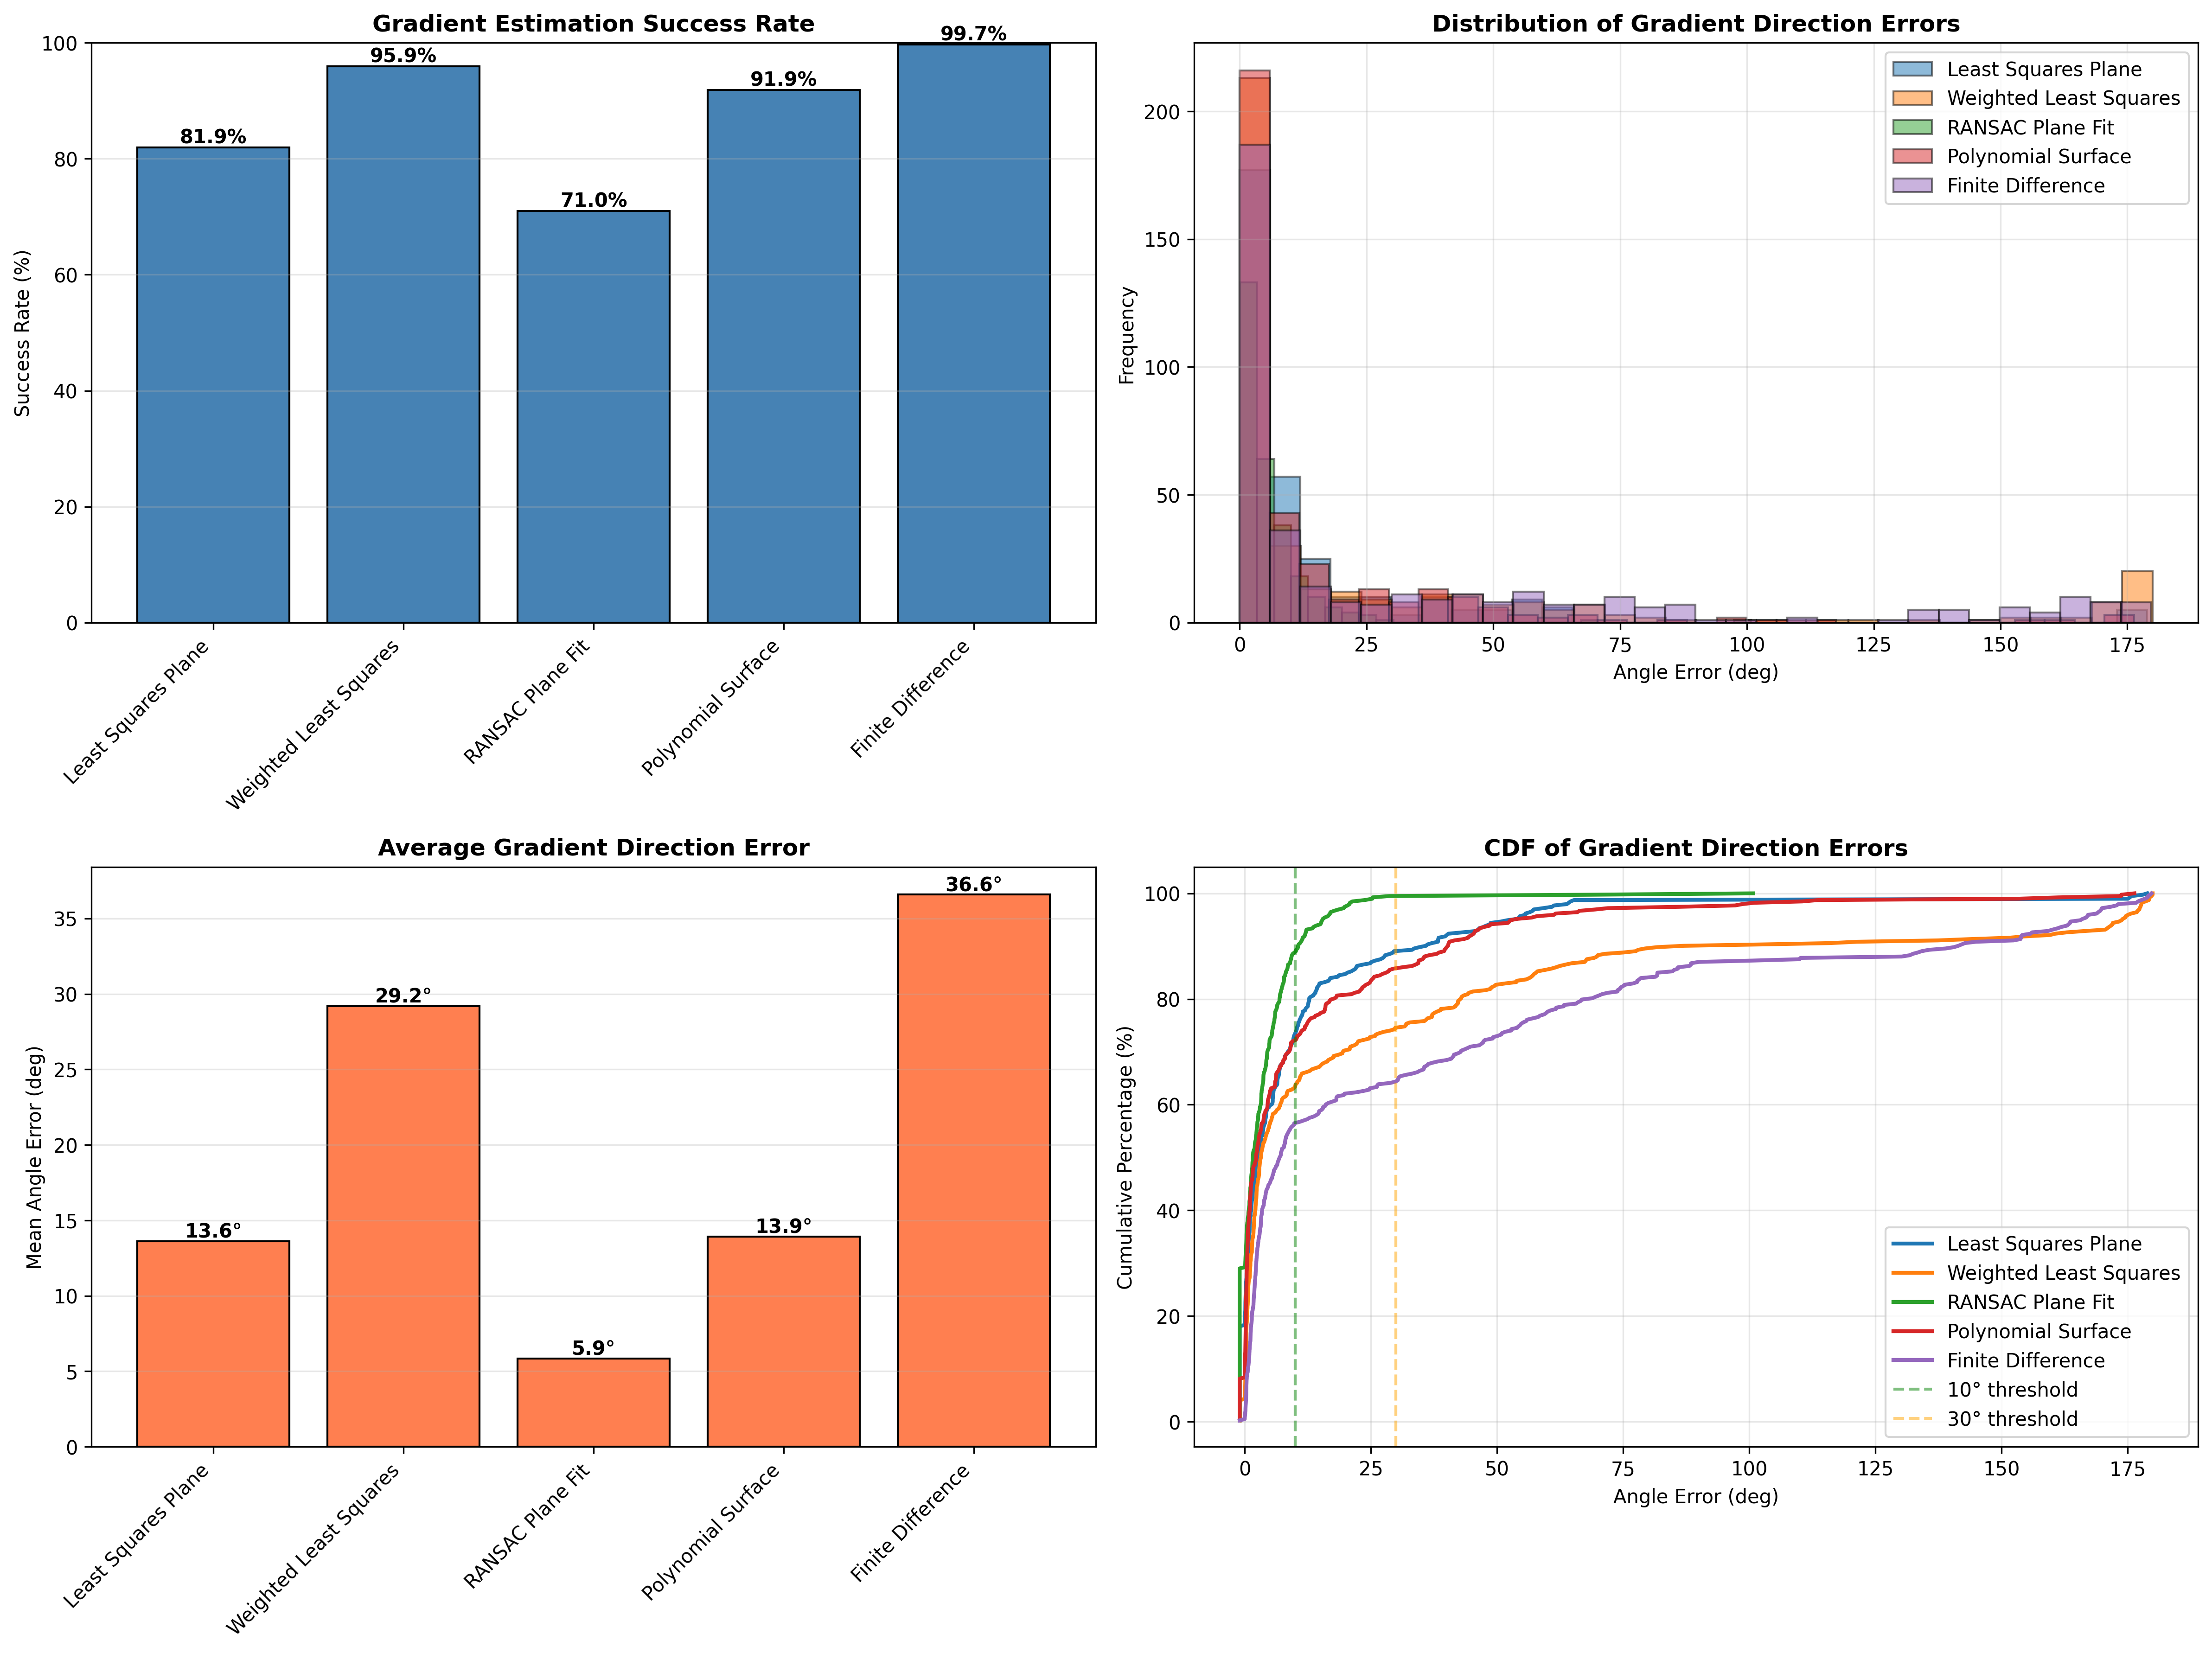
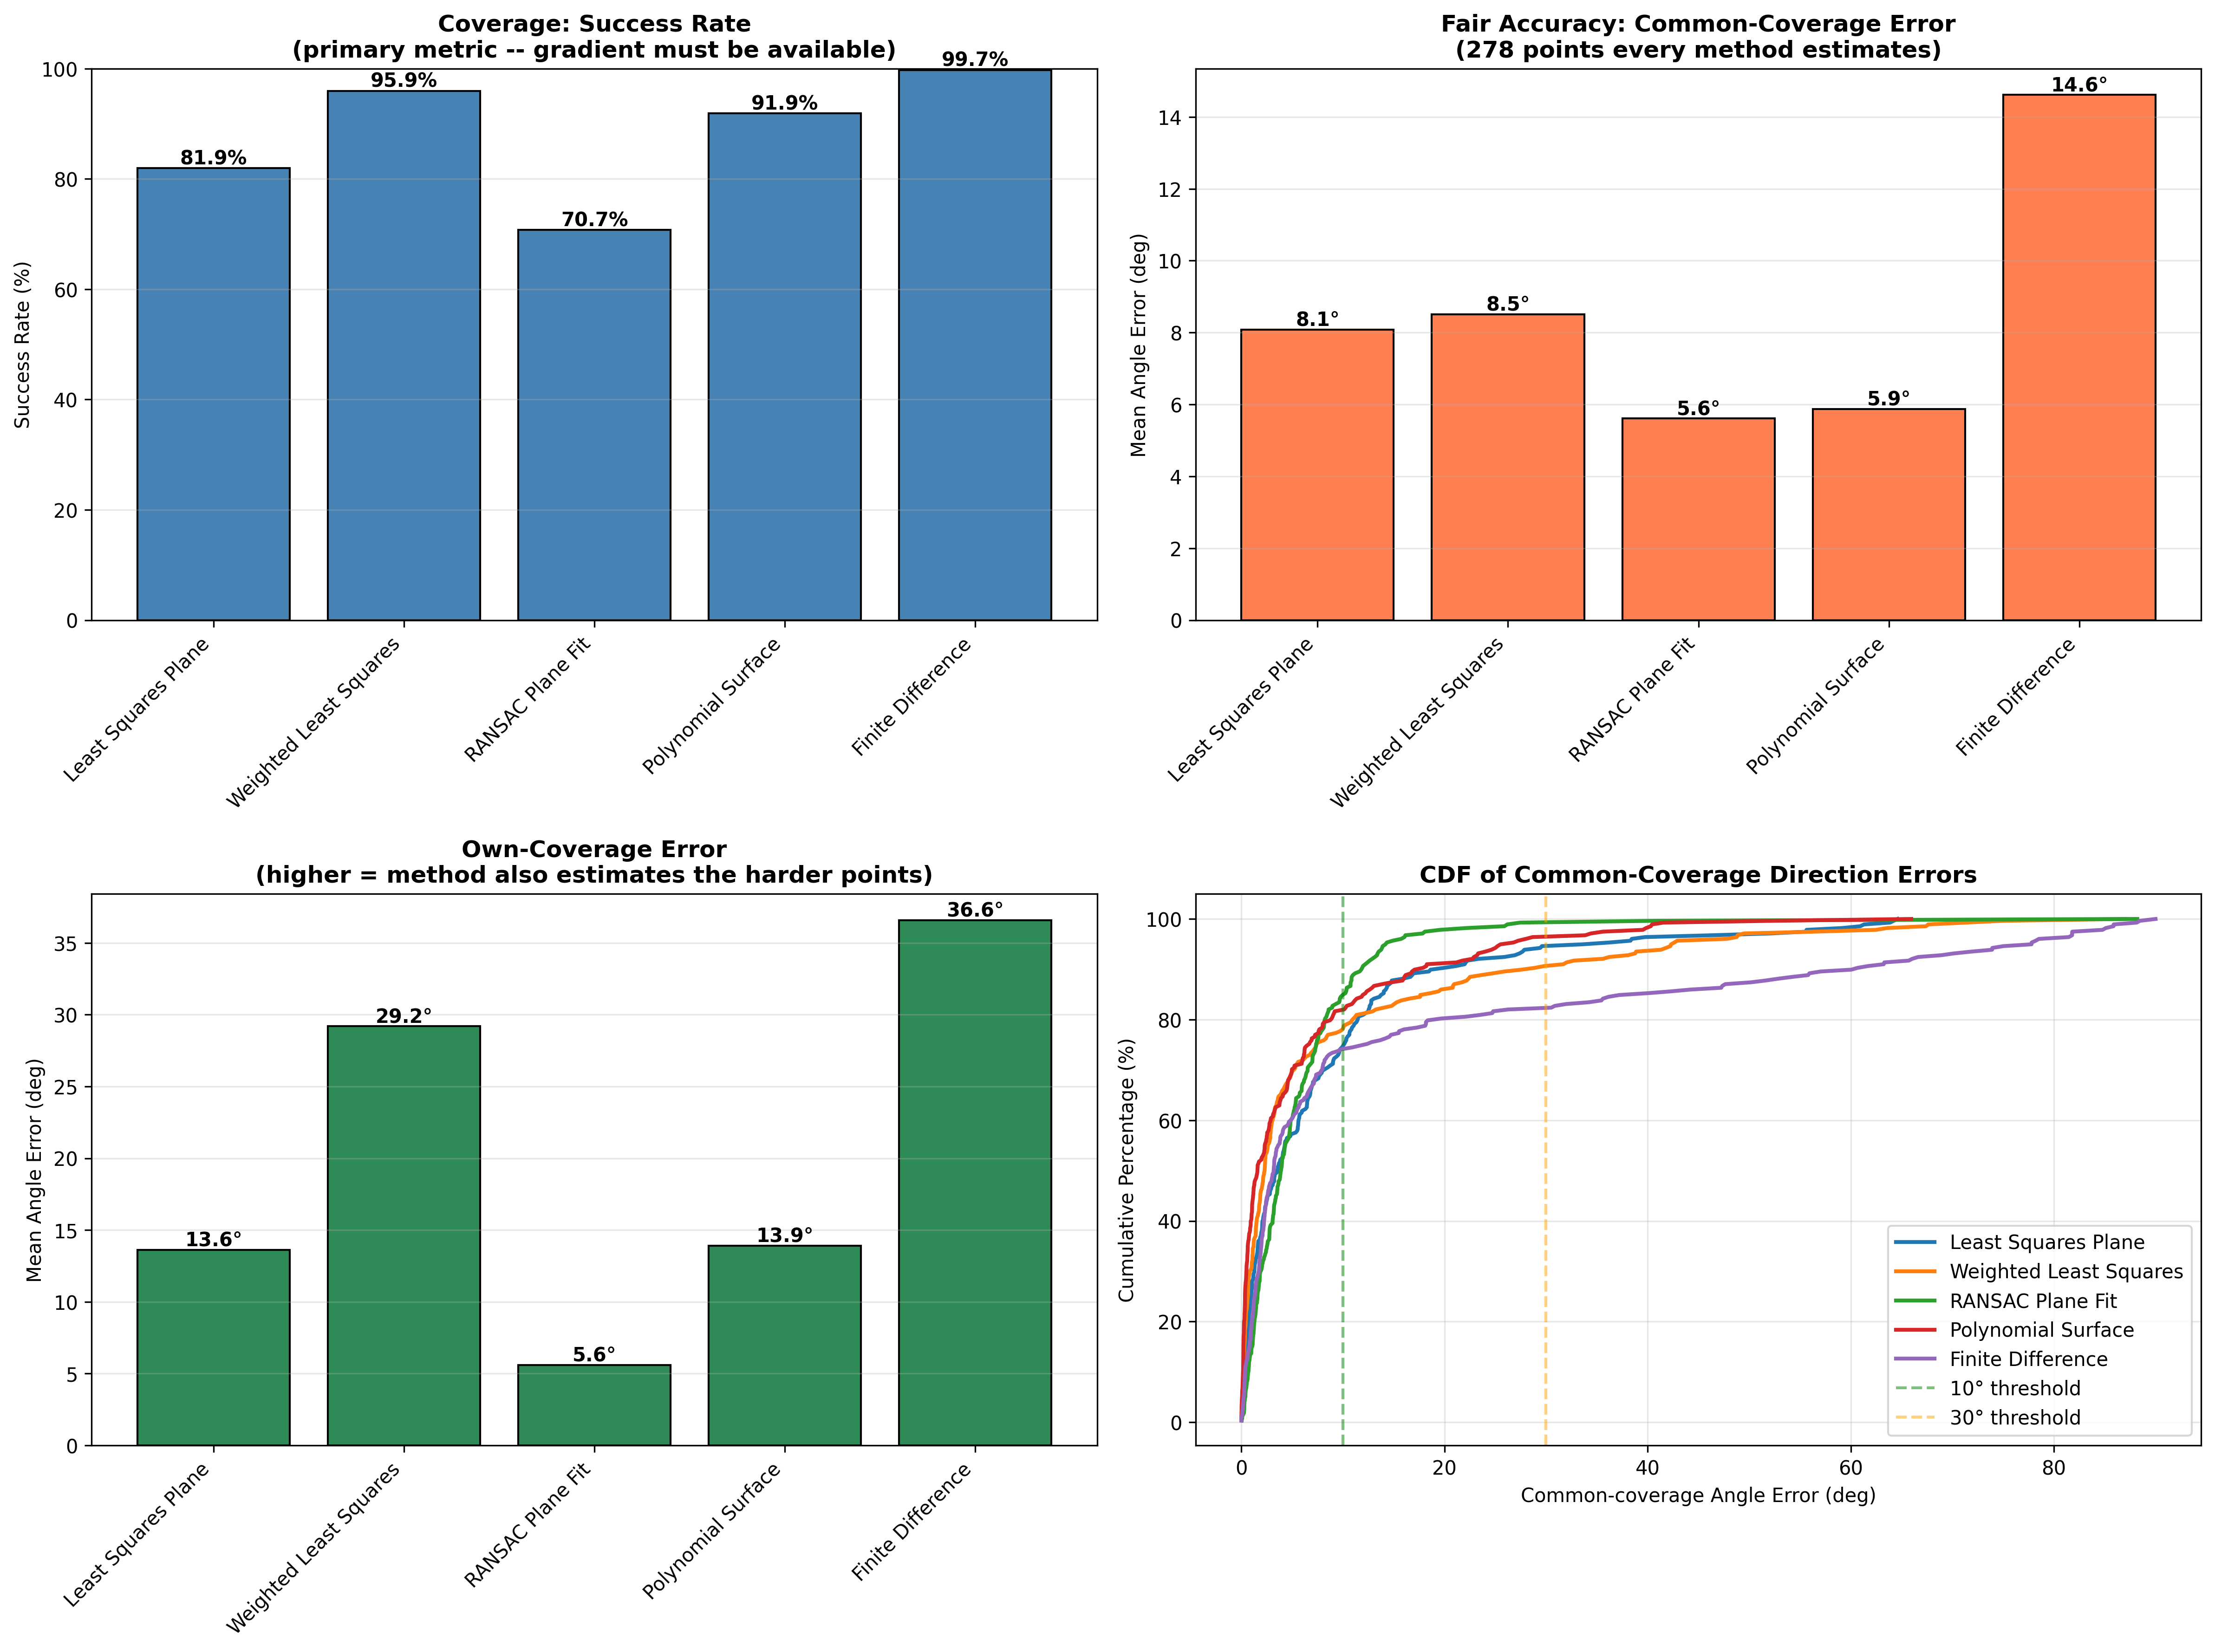
Rework gradient comparison to coverage-first; add sim setup figure
Addresses professor-review high-priority points 1 and 2 in the
Algorithm Design chapter:

- State the decision criterion up front, in priority order (coverage,
  accuracy, computational cost on the microcontroller) before naming
  weighted least squares as the choice (point 2).
- Replace the asserted, self-undermining "angular error is misleading"
  argument with a demonstrated coverage confound: own- vs common-
  coverage error (WLS 29 deg own vs 8.5 deg common), ranking on coverage
  and showing the accuracy gap nearly closes on a shared point set
  (point 1). The unsupported "pushes out of the shadow" claim is removed.
- Define the metrics explicitly: success rate, the angular-error
  equation, and own- vs common-coverage averages; note the straight-to-
  source reference is only approximate behind the pillar.
- Add the simulation setup screenshot establishing the shared test
  environment, and regenerate the gradient comparison/performance figures.

diff --git a/chapters/chapter_2.tex b/chapters/chapter_2.tex
@@ -5,6 +5,15 @@
 
 The two methods this work builds on each steer toward a single light, but neither is enough for the navigation we are after. The bearing points straight at the source and works well in open space, yet it has no memory of where the light is: the moment an obstacle blocks the line of sight, the drone is left without a heading and cannot find its way around. Following the light gradient with a single photodiode, as in prior work~\cite{huang2026lta}, fares no better, since one sensor must infer the gradient from how its signal changes as the drone moves, which is slow and easily confused by noise.
 
+We study these methods in a Webots simulation that recreates the navigation task, as Figure~\ref{fig:sim-setup} shows. The scene places a light source over the floor, an obstacle pillar in the path, and the drone to one side, so that the line of sight from the drone to the light is blocked unless the drone first routes around the pillar. The same environment underlies every simulation result in this chapter and the experiments of Chapter~\ref{chp:obstacle}.
+
+\begin{figure}[h]
+    \centering
+    \includegraphics[width=0.6\textwidth]{figures/simulation_setup.png}
+    \caption{The simulated test environment in Webots: a light source casting its pool of light on the floor, an obstacle pillar, and the drone approaching from one side.}
+    \label{fig:sim-setup}
+\end{figure}
+
 In simulation, a bearing-only controller drives toward the light but, having no memory of the field, cannot plan a way around the obstacle in its path and collides with the pillar, as Figure~\ref{fig:bearing-fail} shows. The collision is already a failure: on a real platform such an impact could damage the drone or the obstacle.
 
 \begin{figure}[h]
@@ -65,7 +74,12 @@ Each update follows the same steps. First, the per-sensor signals are turned int
 
 The first input to the controller is a bearing angle that points from the drone toward the light source. We obtain it from the bearing estimation algorithm of prior work by Harry Huang~\cite{huang2026lta}, which combines the relative light-signal magnitudes measured across the photodiode ring into a single direction; the full derivation is given in Chapter~\ref{chp:background}. This gives the controller an immediate sense of where the beacon lies, without having to explore the environment first.
 
-Not every bearing can be trusted, so each one comes with a measure of signal strength. We only act on a bearing when its strength is above a minimum threshold, which keeps the controller from chasing a heading that is really just noise from a weak, distant or absent beacon. The bearings that do pass this check are then filtered over time, so that a single noisy frame does not cause an abrupt change of heading before the bearing reaches the fusion stage and the state machine.
+Not every bearing can be trusted, so each one comes with a measure of signal strength. We only act on a bearing when its strength is above a minimum threshold, which keeps the controller from chasing a heading that is really just noise from a weak, distant or absent beacon. The bearings that do pass this check are then smoothed over time with an exponential moving average, so that a single noisy frame does not cause an abrupt change of heading before the bearing reaches the fusion stage and the state machine. The update is
+\begin{equation}
+\hat{\psi}_B \leftarrow \hat{\psi}_B + (1-\beta)\,\Delta,
+\label{eq:bearing-filter}
+\end{equation}
+where $\Delta$ is the wrapped angular difference between the new bearing and the current estimate $\hat{\psi}_B$, and $\beta$ controls how much of the history is kept.
 
 \section{Multi-Beacon Traversal}
 
@@ -79,35 +93,56 @@ We must, however, choose these frequencies so that none is a harmonic of another
 
 As the drone flies, we build a spatial map of the light field that serves as the basis for gradient-based navigation. We turn the environment into a regular grid, and each cell records the strength of the light signal we measure as the drone passes through it, indexed by the drone's estimated position in a fixed world frame. Using a grid keeps the map compact: instead of storing every individual measurement, we combine all the readings that fall within the same cell into one representative value, so the size of the map depends on the area covered rather than on how long the drone has been flying.
 
-The value we keep in a cell is the strongest light signal measured across the photodiode array at that location, using the per-sensor light signal defined in Chapter~\ref{chp:background}. When the drone revisits a cell, we do not overwrite its value but blend it with the new measurement, which smooths out the short-lived fluctuations that occur as we sample the same location again over time. This blend is governed by a smoothing factor, which we set by default to weight the stored and new values equally; lowering it makes a cell follow new measurements more closely at the cost of more noise, while raising it gives a smoother but slower-adapting map.
+The value we keep in a cell is the strongest light signal measured across the photodiode array at that location, using the per-sensor light signal defined in Chapter~\ref{chp:background}. When the drone revisits a cell, we do not overwrite its value but blend it with the new measurement through an exponential moving average,
+\begin{equation}
+I_{\text{cell}} \leftarrow \alpha\,I_{\text{cell}} + (1-\alpha)\,I_{\text{new}},
+\label{eq:map-blend}
+\end{equation}
+which smooths out the short-lived fluctuations that occur as we sample the same location again over time. The smoothing factor $\alpha$ is set by default to weight the stored and new values equally; lowering it makes a cell follow new measurements more closely at the cost of more noise, while raising it gives a smoother but slower-adapting map.
 
 The map therefore approximates a scalar field that rises toward the source, since the measured signal grows as the drone approaches the beacon, and this gives the drone a spatial memory of the light that the reactive bearing alone lacks. Turning the field into a heading is the job of the gradient estimator described next.
 
 \section{Gradient Estimation}
 
-Gradient estimation gives the drone the direction it follows across the light map. Prior work inferred this direction from a single photodiode~\cite{huang2026lta}, reading the gradient from how that sensor's signal changed as the drone moved, which is slow because the drone must keep moving to sense anything, and fragile because one sensor sees the source only when it happens to face it. The eight-photodiode ring avoids both issues: whichever way the drone is yawed at least one sensor faces the source, so its orientation no longer blinds the measurement, and each location is captured directly rather than inferred from motion. We then estimate the gradient spatially, fitting the direction in which the light signal rises fastest to the map cells around the drone's current position, and the controller steers along it whenever it navigates by the map. The same fit also tells us how well the surrounding cells agree, giving a measure of how far the gradient can be trusted.
+Gradient estimation gives the drone the direction it follows across the light map. Prior work inferred this direction from a single photodiode~\cite{huang2026lta}, reading the gradient from how that sensor's signal changed as the drone moved, which is slow because the drone must keep moving to sense anything, and fragile because one sensor sees the source only when it happens to face it. The eight-photodiode ring avoids both issues: whichever way the drone is yawed at least one sensor faces the source, so its orientation no longer blinds the measurement, and each location is captured directly rather than inferred from motion.
 
-That trust matters, because a gradient computed from too few cells, or from cells that do not fall on a clean slope, would point the drone the wrong way. We therefore treat the gradient as reliable only once it is backed by enough nearby cells and fits them closely. This is exactly the reliability the state machine refers to: until it is met the drone navigates on the bearing alone, and once it is, the gradient is blended into the heading or, when the bearing is lost, followed on its own.
+We estimate the gradient by fitting a plane to the map. To the cells $\{(x_i, y_i, I_i)\}$ near the drone's current position we fit $I(x,y) = a x + b y + c$ by weighted least squares, weighting each cell by the inverse square of its distance to the drone so that nearer cells count for more, and we take the gradient as $\mathbf{g} = (a, b)$; the controller steers along $\mathbf{g}$ whenever it navigates by the map. The same fit reports how well the cells agree with the plane, through a weighted coefficient of determination
+\begin{equation}
+R^2 = 1 - \frac{\sum_i w_i\,(I_i - \hat{I}_i)^2}{\sum_i w_i\,(I_i - \bar{I}_w)^2},
+\label{eq:gradient-r2}
+\end{equation}
+where $\hat{I}_i$ is the plane's value at cell $i$, $\bar{I}_w$ the weighted mean of the cell values, and $w_i$ the inverse-distance weights, which we use as a measure of how far the gradient can be trusted.
 
-The gradient itself can be estimated in more than one way, and the best choice is not obvious for the sparse, unevenly spaced cells of a real map. We therefore implement and compare five candidate methods: ordinary and weighted least-squares plane fits~\cite{bjorck1996lsq, strutz2016wls}, a robust RANSAC fit~\cite{fischler1981ransac}, a local polynomial surface fit~\cite{cleveland1979loess}, and finite differences~\cite{leveque2007fdm}. We evaluate each on a densely sampled reference map of the simulated light field, measuring how often it returns a usable estimate and how far that estimate departs from the straight line to the source. This angular error has to be read with care, because the way we compute it makes it an unreliable measure of how useful a direction is once an obstacle is involved, as we explain below. Figure~\ref{fig:gradient-comparison} reports the success rate and angular error of each method.
+This trust matters, because a gradient computed from too few cells, or from cells that do not fall on a clean slope, would point the drone the wrong way. We therefore treat the gradient as reliable only when it is supported by at least a minimum number of cells, when its $R^2$ exceeds a threshold, and when its magnitude is large enough to be meaningful; the specific values, together with the controller's other parameters, are listed in Appendix~\ref{app:parameters}. This is exactly the reliability the state machine refers to: until it is met the drone navigates on the bearing alone, and once it is, the gradient is blended into the heading or, when the bearing is lost, followed on its own.
+
+The gradient itself can be estimated in more than one way, and the best choice is not obvious for the sparse, unevenly spaced cells of a real map. We therefore implement and compare five candidate methods: ordinary and weighted least-squares plane fits~\cite{bjorck1996lsq, strutz2016wls}, a robust RANSAC fit~\cite{fischler1981ransac}, a local polynomial surface fit~\cite{cleveland1979loess}, and finite differences~\cite{leveque2007fdm}. We judge them on three criteria, in order of importance: how often each returns a usable estimate, how accurately that estimate points, and how much computation it costs, since the method has to run on the drone's small microcontroller. Figure~\ref{fig:gradient-comparison} reports the first two for each method on a densely sampled reference map of the simulated light field.
+
+We define these measures over a set of $N$ cells sampled across the reference map. At each cell a method either returns a gradient estimate that passes the reliability gates of the previous section or returns nothing; with $S_m$ the cells where method $m$ succeeds, its success rate is $|S_m| / N$. For each returned estimate $\hat{\mathbf{g}}_i = (\hat{a}_i, \hat{b}_i)$ we take the angular error against the direction straight to the source,
+\begin{equation}
+e_i = \left| \left( \hat{\theta}_i - \theta_i^\star + 180^\circ \right) \bmod 360^\circ - 180^\circ \right|,
+\label{eq:angle-error}
+\end{equation}
+where $\hat{\theta}_i = \operatorname{atan2}(\hat{b}_i, \hat{a}_i)$ is the estimate's heading and $\theta_i^\star = \operatorname{atan2}(y_L - y_i,\, x_L - x_i)$ points from cell $i$ to the source at $(x_L, y_L)$, and the wrap folds the unsigned difference into $[0^\circ, 180^\circ]$. We discard cells within ten centimetres of the source, where the field is too steep to give a meaningful reference, and note that this straight-to-source reference is itself only approximate behind the pillar, where the helpful direction leads around the obstacle rather than at it. We then average $e_i$ two ways: the own-coverage error over a method's own cells $S_m$, and the common-coverage error over the cells $C = \bigcap_m S_m$ that every method estimates.
 
 \begin{figure}[h]
     \centering
     \includegraphics[width=0.85\textwidth]{figures/gradient_analysis/gradient_method_performance.png}
-    \caption{Reliability and accuracy of the five gradient estimation methods on the reference map: success rate, mean angular error, and the error distribution.}
+    \caption{Coverage and accuracy of the five gradient estimation methods on the reference map. Success rate is the share of points where the method returns a usable estimate. Accuracy is the angular error against the straight-to-source direction, reported both on the common set of points that every method estimates and on each method's own coverage.}
     \label{fig:gradient-comparison}
 \end{figure}
 
-The methods trade reliability against accuracy. Finite differences almost always return an estimate, with a 99.7\% success rate, but at the largest angular error; RANSAC is the most accurate on the estimates it does produce, with a mean error of 5.9 degrees, but succeeds least often, at 71\%; and the plane and polynomial fits sit in between. We use weighted least squares for the controller: it returns an estimate 96\% of the time, its typical estimate is accurate to within a few degrees, and of the reliable methods it pushes the drone most decisively out of the obstacle's shadow, which is exactly what the fused controller needs when the bearing is lost.
+Coverage is the criterion that matters most. The bearing already gives the controller an accurate heading in open space, so the gradient does not have to be precise there; its job is to be available wherever the drone is, and above all when the bearing is lost behind an obstacle or between beacons. A method that often returns nothing leaves the controller flying blind at exactly those moments. Finite differences return an estimate almost always, at 99.7\%, but from so few cells that the direction is noisy; RANSAC succeeds least often, at 71\%, discarding too many cells as outliers; and the plane and polynomial fits sit between. Weighted least squares returns a usable estimate 96\% of the time, second only to the noisy finite differences.
 
-This is the unreliability noted above. The error is measured against the direction straight to the source, but behind the obstacle that direction points into the pillar, and the direction that actually helps is the one that leads around it. A method that steers around the obstacle therefore records a large angular error even though it is behaving correctly, which is why weighted least squares shows a high mean error of 29 degrees despite a median of only a few degrees. Its largest apparent errors are the aggressive, obstacle-avoiding directions seen behind the pillar in Figure~\ref{fig:gradient-directions}, not genuine mistakes.
+The raw angular error, by contrast, is a misleading way to rank the methods, because it is entangled with coverage. A method that quietly fails on the hardest cells is never charged for them, so its average error flatters it, while a high-coverage method like weighted least squares is scored everywhere, including the cells right under the elevated source where the measured field bends sharply and behind the pillar where it leads around the obstacle rather than straight at it. This shows directly in the figures: on its own coverage weighted least squares records a mean error of 29 degrees, against 5.6 degrees for the low-coverage RANSAC fit. When we instead score every method on the same common set of cells, the cells that all of them estimate, the gap nearly closes. The plane, polynomial, RANSAC and weighted least-squares fits then agree to within about three degrees, from 5.6 to 8.5 degrees of mean error, with only finite differences staying noticeably noisier at 14.6 degrees; weighted least squares itself falls from 29 to 8.5 degrees, which shows that most of its apparent inaccuracy was simply the price of estimating the difficult cells the other methods decline. The remaining differences of a few degrees are not decisive: the bearing compensates them in open space, and the steep field under the source would not even appear in flight, where the drone follows a partial map and never measures that drop.
 
 \begin{figure}[h]
     \centering
     \includegraphics[width=0.55\textwidth]{figures/gradient_analysis/gradient_method_comparison.png}
-    \caption{Estimated gradient directions across the field for each method, coloured by angular error against the straight-to-source direction. The large errors cluster behind the obstacle, where steering around it necessarily departs from pointing straight at the source.}
+    \caption{Estimated gradient directions across the field for each method, coloured by angular error against the straight-to-source direction. The grey disc is the obstacle and the dashed circle the clearance the drone keeps. The large errors cluster under the source and behind the obstacle, where the field bends and pointing straight at the source is no longer the useful direction.}
     \label{fig:gradient-directions}
 \end{figure}
+
+Computational cost and robustness settle the choice. Weighted least squares solves one small fixed-size linear system whose runtime is the same on every call, which sits comfortably within the budget of the drone's microcontroller, and its inverse-distance weighting makes it robust to the changes in overall light level that occur as the drone moves nearer to or further from the source. RANSAC, the most accurate method on its own coverage, is the most expensive and the least predictable, since it repeatedly fits and scores random subsets and its running time varies from call to call, which is awkward for a real-time control loop on a small processor. Finite differences are the cheapest but the noisiest. Weighted least squares therefore offers the best combination for this platform: the highest usable coverage, a low and constant computational cost, and robustness to light-level changes, which is why the controller estimates its gradient this way.
 
 \section{Controller State Machine}
 
@@ -156,7 +191,12 @@ The recovering phase is what keeps the drone moving when the beacon disappears, 
 
 \section{Control Output}
 
-The controller's main output is a single target heading, formed by merging the bearing and the gradient directions. Because both are angles, we combine them with a weighted circular mean rather than a plain average, which avoids the wrap-around errors that averaging angles would cause near 0 and 360 degrees. When both inputs are reliable we weight them equally; when only one is available we follow that one alone, and when neither is, the drone simply holds its current heading.
+The controller's main output is a single target heading, formed by merging the bearing direction $\psi_B$ and the gradient direction $\psi_G$. Because both are angles, we combine them with a weighted circular mean,
+\begin{equation}
+\psi = \operatorname{atan2}\!\big(w_B \sin\psi_B + w_G \sin\psi_G,\; w_B \cos\psi_B + w_G \cos\psi_G\big),
+\label{eq:fusion}
+\end{equation}
+rather than a plain average, which would suffer wrap-around errors near 0 and 360 degrees. When both inputs are reliable we set $w_B = w_G$, weighting them equally; when only one is available its weight is one and the other zero; and when neither is, the drone holds its current heading.
 
 Alongside the heading, the controller sets a forward speed. The drone only flies forward once it is roughly pointing at the target, so the speed is held at zero while it is still turning to align and set to a fixed cruising speed once it is aligned and approaching. This keeps the drone from drifting sideways while it corrects a large heading error.
 

diff --git a/chapters/appendix_a.tex b/chapters/appendix_a.tex
@@ -1,4 +1,40 @@
-\chapter{APPENDIX TITLE}
-\label{app:appendix_a}
+\chapter{Controller Parameters}
+\label{app:parameters}
 
-Appendix body.
+This appendix lists the parameter values used by the fused navigation controller of Chapter~\ref{chp:algorithm}. The symbols match those introduced in that chapter.
+
+\begin{table}[h]
+    \centering
+    \begin{tabular}{lll}
+        \hline
+        Parameter & Symbol & Value \\
+        \hline
+        \multicolumn{3}{l}{\textit{Bearing}} \\
+        Minimum signal strength to trust a bearing & --- & 5 \\
+        Bearing smoothing factor & $\beta$ & 0.7 \\
+        Frames a lost bearing is held before dropping & --- & 3 \\
+        \multicolumn{3}{l}{\textit{Light map and gradient}} \\
+        Grid cell size & $r$ & 0.05\,m \\
+        Cell smoothing factor & $\alpha$ & 0.5 \\
+        Neighbourhood radius & $d_{\min},d_{\max}$ & 0.05,\,3.0\,m \\
+        Weight regulariser & $\varepsilon$ & 0.01 \\
+        Minimum cells for a gradient & --- & 3 \\
+        Minimum weighted $R^2$ & --- & 0.5 \\
+        Minimum gradient magnitude & --- & 0.5 \\
+        \multicolumn{3}{l}{\textit{Fusion}} \\
+        Bearing weight & $w_B$ & 0.5 \\
+        Gradient weight & $w_G$ & 0.5 \\
+        \multicolumn{3}{l}{\textit{State machine and flight}} \\
+        Alignment tolerance & --- & 15\textdegree \\
+        Re-alignment threshold & --- & 30\textdegree \\
+        Arrival signal strength & --- & 7 \\
+        Search yaw rate & --- & 30\textdegree/s \\
+        Cruising forward speed & --- & 0.20\,m/s \\
+        Maximum forward speed & --- & 0.30\,m/s \\
+        Flight altitude & --- & 1.0\,m \\
+        Dwell time per beacon & --- & 1.0\,s \\
+        \hline
+    \end{tabular}
+    \caption{Parameter values used by the fused navigation controller.}
+    \label{tab:parameters}
+\end{table}